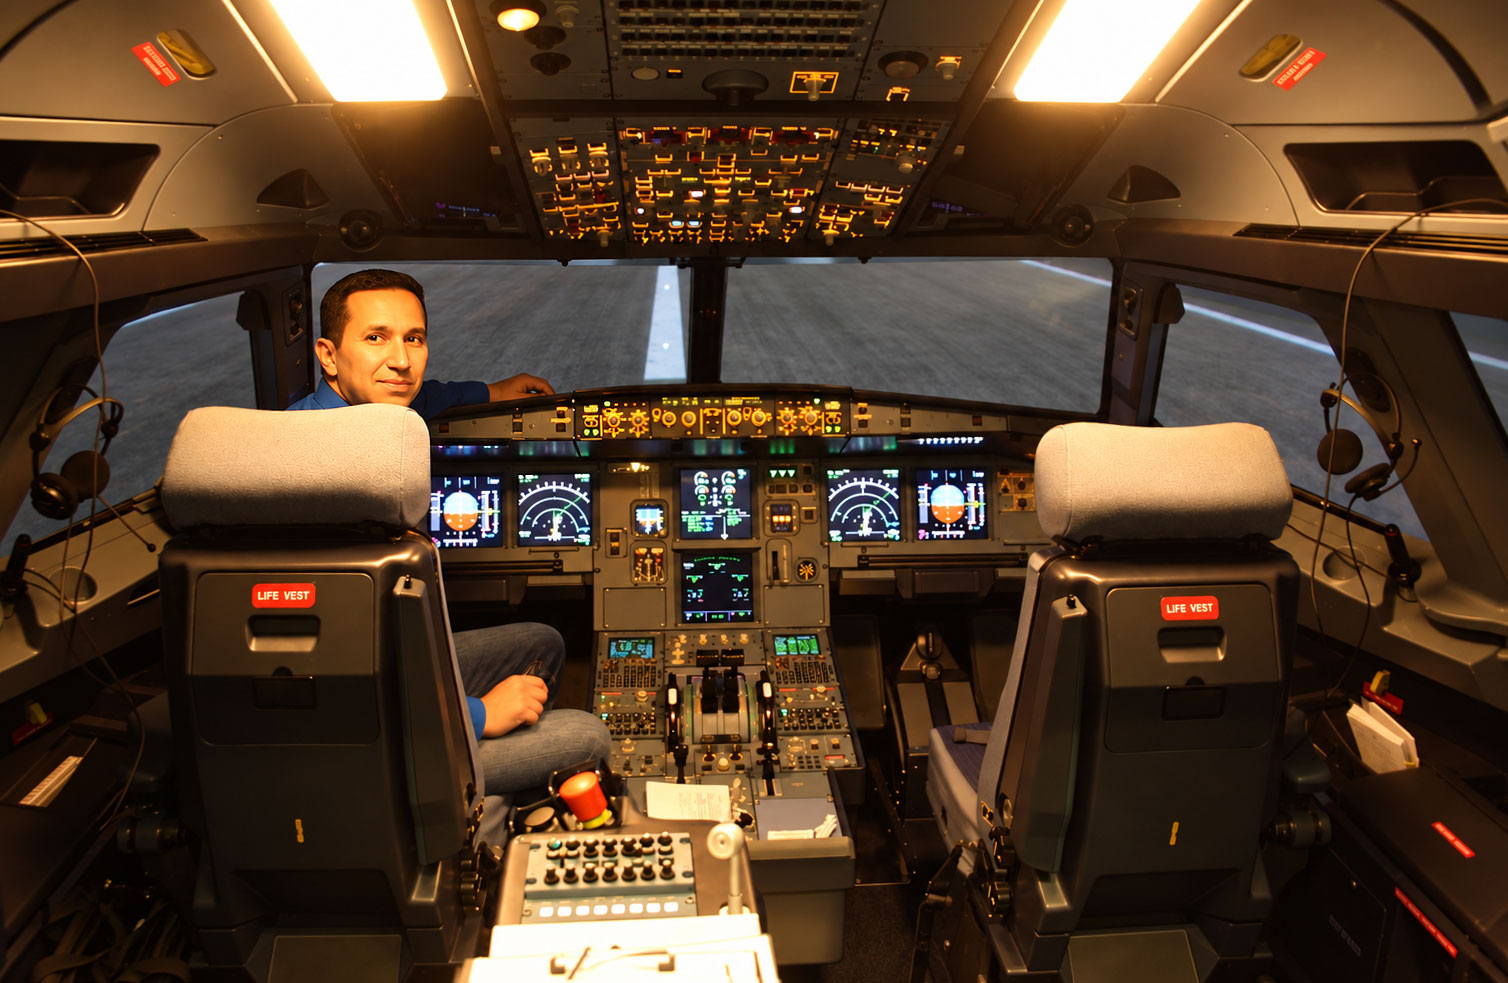
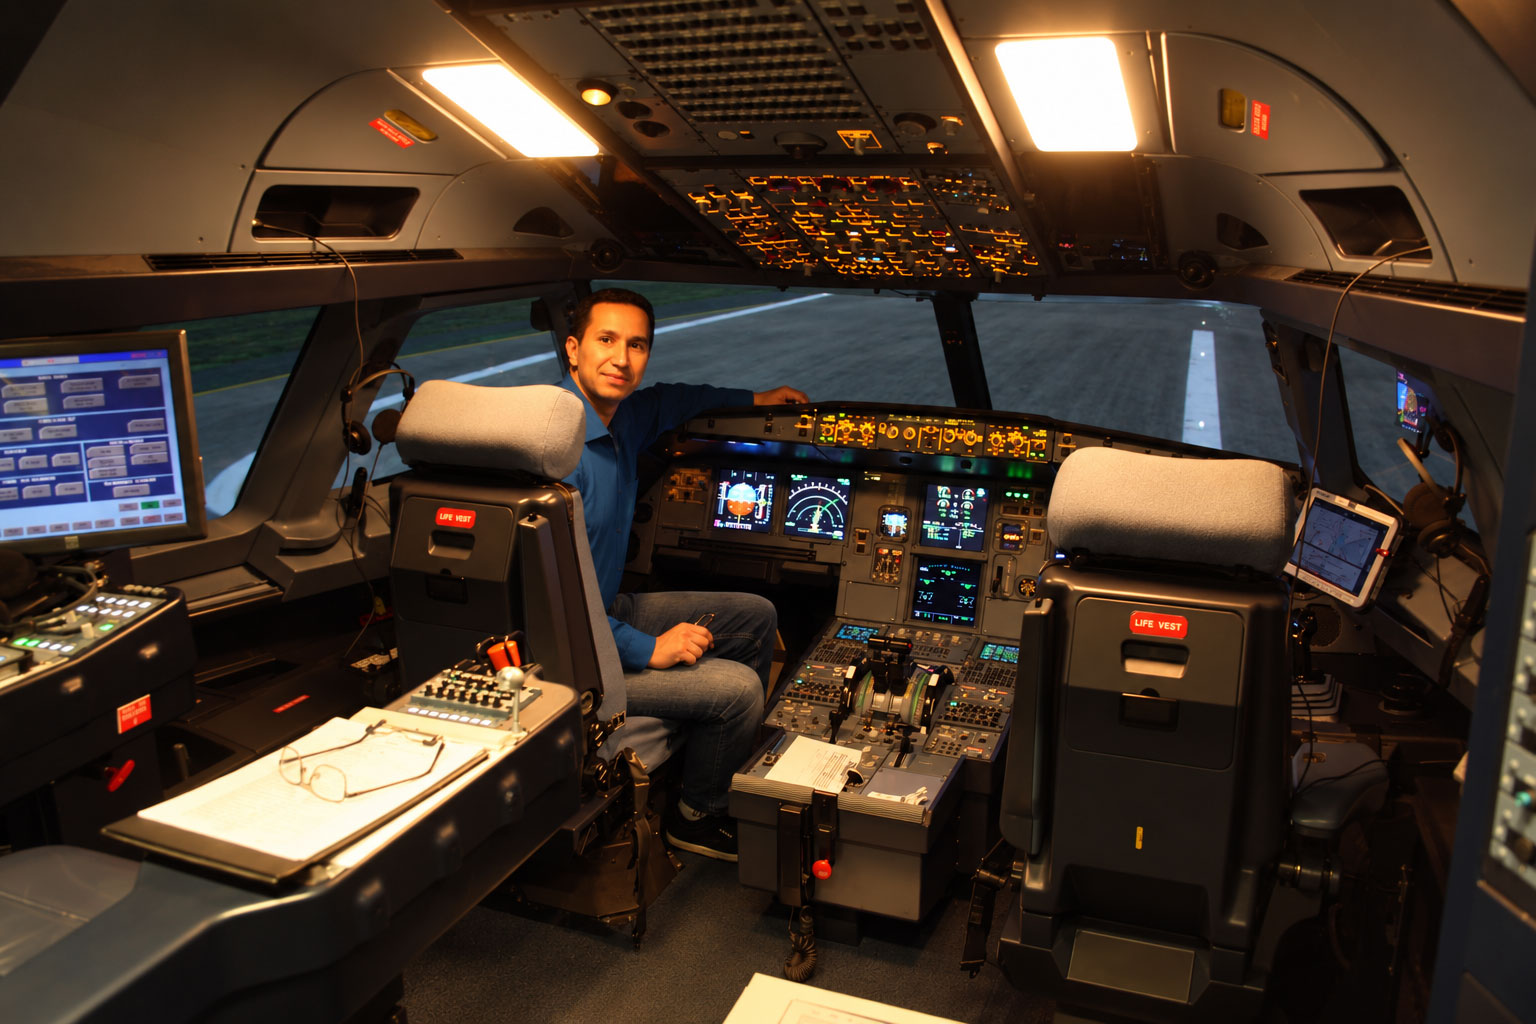
Add fonts

diff --git a/src/styles/components/_apropos.scss b/src/styles/components/_apropos.scss
@@ -3,15 +3,73 @@
 .apropos {
   padding-block: 3rem;
 
-  &__titleContainer {
+  &__title {
+    font-size: 2.5rem;
+    position: relative;
+    text-align: center;
+    text-transform: uppercase;
+
     display: flex;
     align-items: center;
+    justify-content: center;
+    gap: clamp(10px, 3vw, 32px);
+    margin-bottom: 3rem;
+    font-weight: 400;
+    line-height: 1.2;
+    letter-spacing: .13em;
+    text-transform: uppercase;
   }
 
-  &__citation {
-    margin-left: auto;
-    max-width: 20rem;
-    font-family: 'Cormorant Garamond', $font-body;
-    font-style: italic;
+  &__wing {
+    display: flex;
+    flex: 0 1 clamp(30px, 10vw, 112px);
+    min-width: 18px;
+    flex-direction: column;
+    gap: clamp(4px, .7vw, 8px);
+  }
+
+  &__wing i {
+    background: #d19e1d;
+    background: -webkit-linear-gradient(180deg, #d19e1d 0%, #ffd86e 50%, #e3a812 100%);
+    background: linear-gradient(180deg, #d19e1d 0%, #ffd86e 50%, #e3a812 100%);
+    display: block;
+    height: clamp(2px, .35vw, 4px);
+    border-radius: 10px;
+  }
+
+  &__wing i:nth-child(1) { width: 100%; }
+  &__wing i:nth-child(2) { width: 76%; }
+  &__wing i:nth-child(3) { width: 54%; }
+
+  .wing-left { align-items: flex-end; }
+  .wing-right { align-items: flex-start; }
+
+  &__speach,
+  &__photos {
+    display: inline-block;
+    vertical-align: top;
+    width: 50%; 
+  }
+
+  &__photos--photo {
+    border: .5rem solid #fff;
+    box-shadow: rgba(0,0,0,0.25) 0px 2px 6px 0px;
+    margin: 0 auto;
+    position: relative;
+    width: 26rem;
+  }
+
+  .photo-01 {
+    transform: rotate(5deg);
+    z-index: 5;
+  }
+  .photo-02 {
+    transform: rotate(7deg);
+    z-index: 1;
+  }
+  
+
+  figcaption {
+      display: none;
   }
 }

diff --git a/src/styles/base/_fonts.scss b/src/styles/base/_fonts.scss
@@ -1,6 +1,6 @@
 @font-face {
   font-family: 'Inter';
-  src: url('/fonts/Inter-Variable.woff2') format('woff2');
+  src: url('../fonts/Inter-Variable.woff2') format('woff2');
   font-weight: 400 700;
   font-style: normal;
   font-display: swap;
@@ -8,7 +8,7 @@
 
 @font-face {
   font-family: 'Rajdhani';
-  src: url('/fonts/Rajdhani-Medium.woff2') format('woff2');
+  src: url('../fonts/Rajdhani-Medium.woff2') format('woff2');
   font-weight: 500;
   font-style: normal;
   font-display: swap;
@@ -16,7 +16,7 @@
 
 @font-face {
   font-family: 'Rajdhani';
-  src: url('/fonts/Rajdhani-SemiBold.woff2') format('woff2');
+  src: url('../fonts/Rajdhani-SemiBold.woff2') format('woff2');
   font-weight: 600;
   font-style: normal;
   font-display: swap;
@@ -24,7 +24,7 @@
 
 @font-face {
   font-family: 'Rajdhani';
-  src: url('/fonts/Rajdhani-Bold.woff2') format('woff2');
+  src: url('../fonts/Rajdhani-Bold.woff2') format('woff2');
   font-weight: 700;
   font-style: normal;
   font-display: swap;
@@ -32,7 +32,7 @@
 
 @font-face {
   font-family: 'Cormorant Garamond';
-  src: url('/fonts/CormorantGaramond-Variable.woff2') format('woff2');
+  src: url('../fonts/CormorantGaramond-Variable.woff2') format('woff2');
   font-weight: 400 600;
   font-style: normal;
   font-display: swap;
@@ -40,7 +40,7 @@
 
 @font-face {
   font-family: 'Cormorant Garamond';
-  src: url('/fonts/CormorantGaramond-Variable-Italic.woff2') format('woff2');
+  src: url('../fonts/CormorantGaramond-Variable-Italic.woff2') format('woff2');
   font-weight: 400 600;
   font-style: italic;
   font-display: swap;

diff --git a/src/components/AboutMe.vue b/src/components/AboutMe.vue
@@ -5,13 +5,28 @@
 <template>
   <section class="apropos" id="apropos" aria-labelledby="apropos-title">
     <div class="container">
-        <div class="apropos__titleContainer">
-            <h2 class="apropos__title" id="apropos-title">Bienvenue à bord !</h2>
-            <div class="apropos__citation">
-                On ne combat pas la météo, on apprend à voler avec elle.
-            </div>
+        <h2 class="apropos__title" id="apropos-title">
+          <span class="apropos__wing wing-left" aria-hidden="true"><i></i><i></i><i></i></span>
+          Bienvenue à bord !
+          <span class="apropos__wing wing-right" aria-hidden="true"><i></i><i></i><i></i></span>
+        </h2>
+
+        <div class="apropos__speach">
+          Lorem ipsum dolor sit amet consectetur adipisicing elit. Dignissimos mollitia quas, similique iste aliquam qui, sed, laborum non commodi assumenda fugit nisi error beatae? Placeat neque voluptates assumenda sint alias?
         </div>
 
+        <div class="apropos__photos">
+          <figure class="apropos__photos--photo photo-01">
+            <img src="../assets/piper.jpg" alt="Mon premier vol en Piper">
+            <figcaption>Mon premier vol en Piper</figcaption>
+          </figure>
+
+          <figure class="apropos__photos--photo photo-02">
+            <img src="../assets/a320.jpg" alt="Aux commande d'un simulateur A320">
+            <figcaption>Aux commande d'un simulateur A32</figcaption>
+          </figure>
+          
+        </div>
     </div>
   </section>
 </template>

diff --git a/src/styles/components/_partners.scss b/src/styles/components/_partners.scss
@@ -1,15 +1,15 @@
 @use '../base/variables' as *;
 
 .partners {
-  padding-block: 32px;
+  padding-block: 2rem;
 
   &__title {
-    margin-bottom: 16px;
+    margin-bottom: 1rem;
   }
 
   &__grid {
     display: grid;
-    gap: 16px;
+    gap: 1rem;
     grid-template-columns: repeat(2, 1fr);
 
     @media (min-width: $bp-tablet) {
@@ -21,10 +21,6 @@
     a {
       align-items: center;
       aspect-ratio: 3 / 2;
-      // Fond blanc constant (pas $color-bg) : les logos partenaires
-      // (comme Instant Gaming, en tons sombres) ne sont pas prévus pour un
-      // fond thémable — une tuile blanche fixe garantit qu'ils restent
-      // lisibles dans les deux thèmes, sans dépendre de variantes du logo.
       background-color: #fff;
       border: 1px solid $color-border;
       border-radius: $radius;

diff --git a/src/components/LiveStream.vue b/src/components/LiveStream.vue
@@ -5,7 +5,7 @@ import liveNowAnimation from '../assets/Live now animation.json'
 import { useTwitchStream } from '../composables/useTwitchStream.js'
 
 // const TWITCH_CHANNEL = 'airlinerslive'
-const TWITCH_CHANNEL = 'grauadler'
+const TWITCH_CHANNEL = 'londoncontroller'
 const hostname = window.location.hostname
 const twitchEmbedUrl = `https://player.twitch.tv/?channel=${TWITCH_CHANNEL}&parent=${hostname}&muted=true`
 const twitchChatUrl = `https://www.twitch.tv/embed/${TWITCH_CHANNEL}/chat?parent=${hostname}&darkpopout`

diff --git a/src/data/navigation.js b/src/data/navigation.js
@@ -1,6 +1,9 @@
 export const navigation = [
+  { label: 'Live', href: '#live-title' },
   { label: 'Event', href: '#event' },
   { label: 'À propos', href: '#apropos' },
-  { label: 'Realisations', href: '#contributions' },
+  { label: 'Réalisations', href: '#contributions' },
+  { label: 'Screenshots', href: '#gallery-title' },
+  { label: 'Setup', href: '#setup' },
   { label: 'Partenaires', href: '#partenaires' },
 ]
